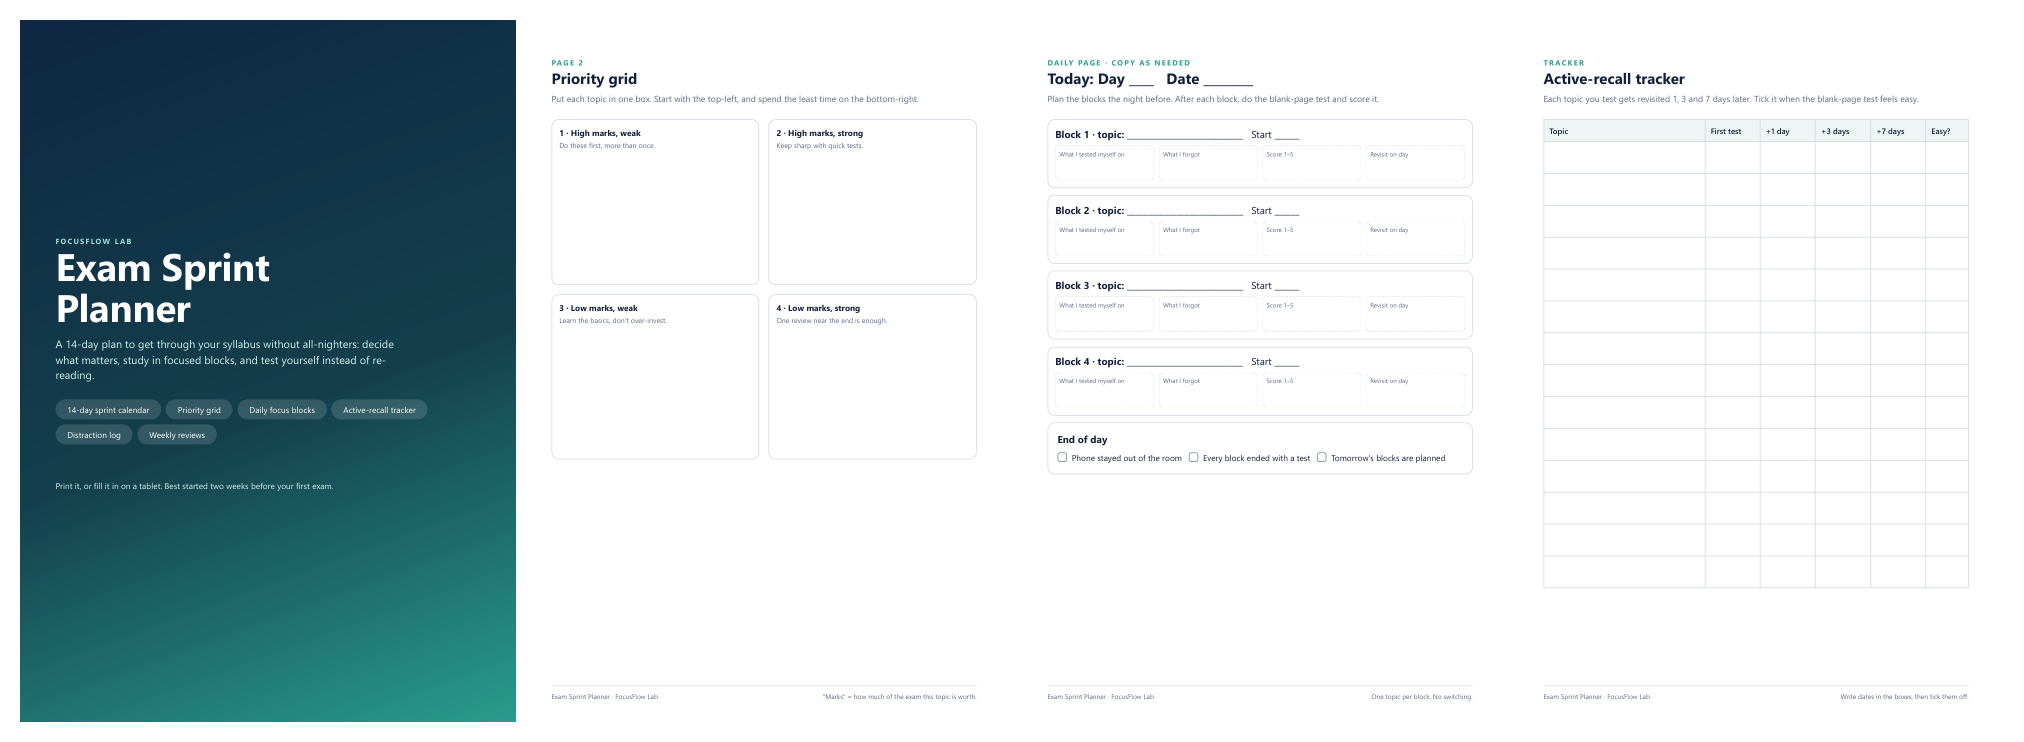
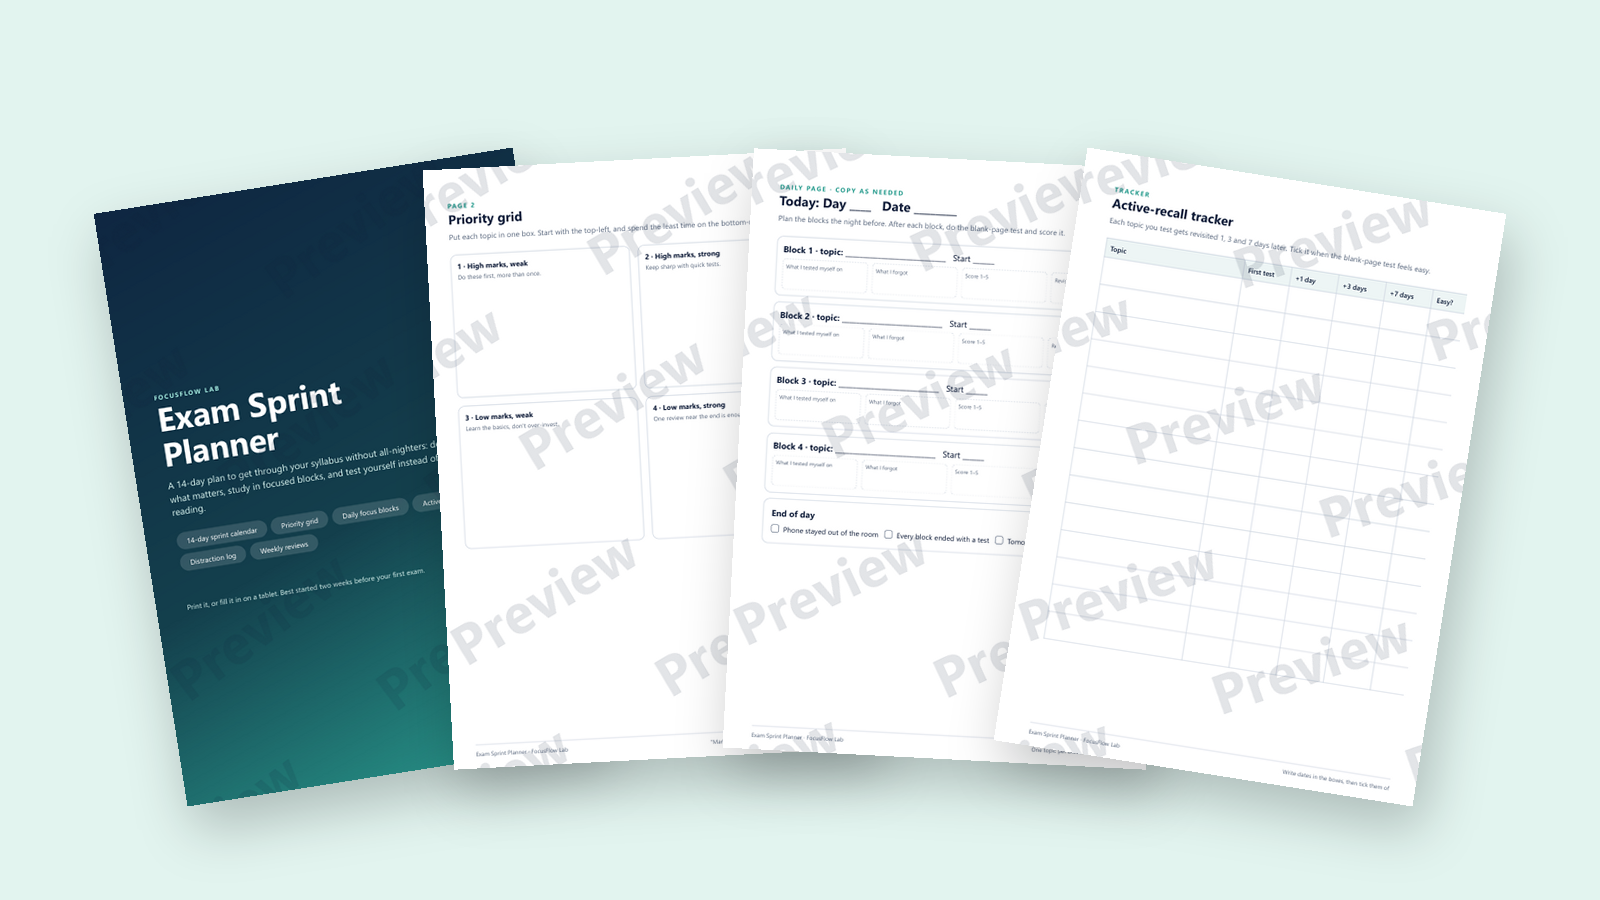
Sticky kit form and planner image; protected planner mockups
- Kit form and planner picture stay in view beside their lists on desktop
- Flat full-size planner preview replaced by a fanned, low-res mockup
  marked Preview (same planner-preview.png URL); old webps removed
- Mockups for the NCLEX-RN and MCAT planners, built by _tools/mockup.py

diff --git a/index.html b/index.html
@@ -56,7 +56,7 @@
       "@type": "Product",
       "name": "Exam Sprint Planner",
       "description": "A 14-day printable plan for the two weeks before your exams: exam map and priority grid, sprint calendar with four focus blocks a day, daily focus pages and an active-recall tracker. 9 A4 pages, PDF.",
-      "image": "https://thefocusflowlab.com/planner-preview.png",
+      "image": "https://thefocusflowlab.com/assets/products/exam-sprint-planner.png",
       "brand": { "@type": "Brand", "name": "FocusFlow Lab" },
       "offers": {
         "@type": "Offer",
@@ -168,10 +168,10 @@ ml('account', '2740917');
       <div class="split planner">
         <figure>
           <picture>
-            <source type="image/webp" srcset="/assets/planner-preview-800.webp 800w, /assets/planner-preview-1400.webp 1400w" sizes="(max-width: 860px) 100vw, 600px">
-            <img class="preview" src="planner-preview.png" alt="Pages from the Exam Sprint Planner: cover, priority grid, daily focus page and active-recall tracker" width="2024" height="742" loading="lazy" decoding="async">
+            <source type="image/webp" srcset="/assets/products/exam-sprint-planner-800.webp 800w, /assets/products/exam-sprint-planner.webp 1600w" sizes="(max-width: 860px) 100vw, 600px">
+            <img class="preview" src="/assets/products/exam-sprint-planner.png" alt="Exam Sprint Planner preview: cover, priority grid, daily focus page and active-recall tracker" width="1600" height="900" loading="lazy" decoding="async">
           </picture>
-          <figcaption>Cover, priority grid, daily focus page and active-recall tracker.</figcaption>
+          <figcaption>A preview of 4 of the 9 pages. The full PDF arrives after purchase.</figcaption>
         </figure>
         <div>
           <h2 id="planner-title">Exam Sprint Planner</h2>

diff --git a/assets/site.css b/assets/site.css
@@ -439,3 +439,8 @@ input[type="text"] { width: 100%; min-height: 44px; padding: var(--space-xs) var
   .masthead nav::-webkit-scrollbar { display: none; }
   .masthead nav a { white-space: nowrap; flex: none; }
 }
+
+/* Sticky companions: the kit form and the planner picture stay in view beside their lists */
+@media (min-width: 861px) {
+  #free-kit .form-sheet, .planner figure { position: sticky; top: 88px; }
+}

diff --git a/_tools/mockup.py b/_tools/mockup.py
@@ -1,0 +1,90 @@
+"""Make protected product mockups: pages fanned on a soft background, low resolution, marked "Preview".
+
+Usage: python _tools/mockup.py
+Writes planner-preview.png (Exam Sprint Planner, same URL as before) and
+assets/products/*.webp / *.png for each planner.
+"""
+import pathlib
+from PIL import Image, ImageDraw, ImageFilter, ImageFont
+import fitz  # pymupdf
+
+ROOT = pathlib.Path(__file__).resolve().parent.parent
+PRODUCTS = pathlib.Path(r"F:\Personal Projects\focusflowlab-products")
+OUT = ROOT / "assets/products"
+OUT.mkdir(parents=True, exist_ok=True)
+FONT = None
+for f in [r"C:\Windows\Fonts\segoeuib.ttf", r"C:\Windows\Fonts\arialbd.ttf"]:
+    if pathlib.Path(f).exists():
+        FONT = f; break
+
+BG = (226, 244, 239)        # mint wash
+PAGE_H = 600                # low on purpose: shows the layout, too small to print well
+
+def mark(page):
+    """Soft diagonal 'Preview' marks tiled across the page."""
+    w, h = page.size
+    big = Image.new("RGBA", (w * 3, h * 3), (0, 0, 0, 0))
+    d = ImageDraw.Draw(big)
+    font = ImageFont.truetype(FONT, int(w * 0.13)) if FONT else ImageFont.load_default()
+    step_x, step_y = int(w * 0.75), int(h * 0.22)
+    for row, y in enumerate(range(0, h * 3, step_y)):
+        for x in range(-w + (row % 2) * step_x // 2, w * 3, step_x):
+            d.text((x, y), "Preview", font=font, fill=(20, 33, 61, 30))
+    big = big.rotate(28, resample=Image.BICUBIC)
+    layer = big.crop((w, h, 2 * w, 2 * h))
+    out = page.convert("RGBA"); out.alpha_composite(layer)
+    return out
+
+def shrink(page):
+    r = PAGE_H / page.height
+    return page.resize((int(page.width * r), PAGE_H), Image.LANCZOS)
+
+def compose(pages, size=(1600, 900)):
+    canvas = Image.new("RGBA", size, BG + (255,))
+    n = len(pages)
+    angles = [-9, -3, 3, 9][:n] if n == 4 else [-7, 0, 7][:n]
+    spread = 300 if n == 4 else 360
+    cx = size[0] // 2
+    for i, (pg, ang) in enumerate(zip(pages, angles)):
+        pg = mark(shrink(pg))
+        rot = pg.rotate(-ang, expand=True, resample=Image.BICUBIC)
+        pad = 60
+        shadow = Image.new("RGBA", (rot.width + 2 * pad, rot.height + 2 * pad), (0, 0, 0, 0))
+        alpha = Image.new("L", shadow.size, 0)
+        alpha.paste(rot.split()[3].point(lambda a: 60 if a > 0 else 0), (pad, pad))
+        shadow.putalpha(alpha.filter(ImageFilter.GaussianBlur(26)))
+        shadow = Image.composite(Image.new("RGBA", shadow.size, (20, 40, 60, 255)), shadow, alpha.filter(ImageFilter.GaussianBlur(26)))
+        shadow.putalpha(alpha.filter(ImageFilter.GaussianBlur(26)))
+        x = int(cx + (i - (n - 1) / 2) * spread - rot.width / 2)
+        y = int(size[1] / 2 - rot.height / 2 + abs(ang) * 3)
+        canvas.alpha_composite(shadow, (x - pad + 8, y - pad + 24))
+        canvas.alpha_composite(rot, (x, y))
+    return canvas.convert("RGB")
+
+def save(img, name):
+    img.save(OUT / f"{name}.webp", quality=80)
+    small = img.resize((800, int(800 * img.height / img.width)), Image.LANCZOS)
+    small.save(OUT / f"{name}-800.webp", quality=80)
+    img.save(OUT / f"{name}.png", optimize=True)
+    print("wrote", name)
+
+# Exam Sprint Planner: cut the four pages out of the old flat preview (copy it to %TEMP%/_exam-sprint-source.png from git history first)
+src = Image.open(pathlib.Path(__import__("os").environ["TEMP"]) / "_exam-sprint-source.png").convert("RGB")
+boxes = [(20, 20, 510, 713), (525, 20, 985, 713), (1015, 20, 1475, 713), (1505, 20, 1965, 713)]
+pages = []
+for b in boxes:
+    pg = Image.new("RGB", (490, 693), "white")
+    crop = src.crop(b); pg.paste(crop, (0, 0))
+    pages.append(pg)
+sprint = compose(pages)
+save(sprint, "exam-sprint-planner")
+sprint.save(ROOT / "planner-preview.png", optimize=True)   # same URL as before, now the protected mockup
+
+# New planners: render pages 1, 6, 4 from the PDFs at low resolution
+for name in ["NCLEX-RN-8-Week-Study-Planner", "MCAT-16-Week-Study-Planner"]:
+    doc = fitz.open(PRODUCTS / f"{name}.pdf")
+    imgs = []
+    for i in (0, 5, 3):
+        pix = doc[i].get_pixmap(dpi=70)
+        imgs.append(Image.frombytes("RGB", (pix.width, pix.height), pix.samples))
+    save(compose(imgs), name.lower())
